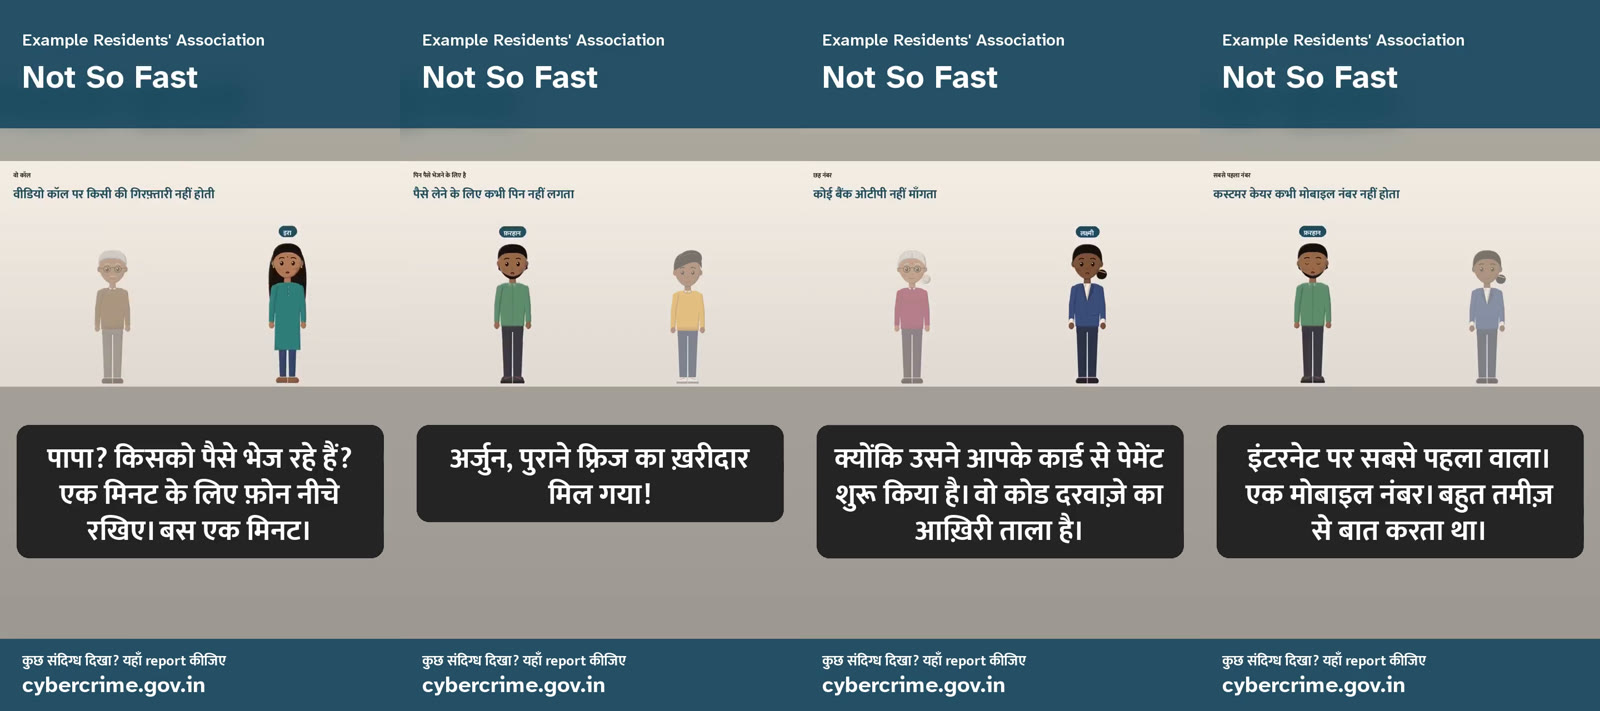
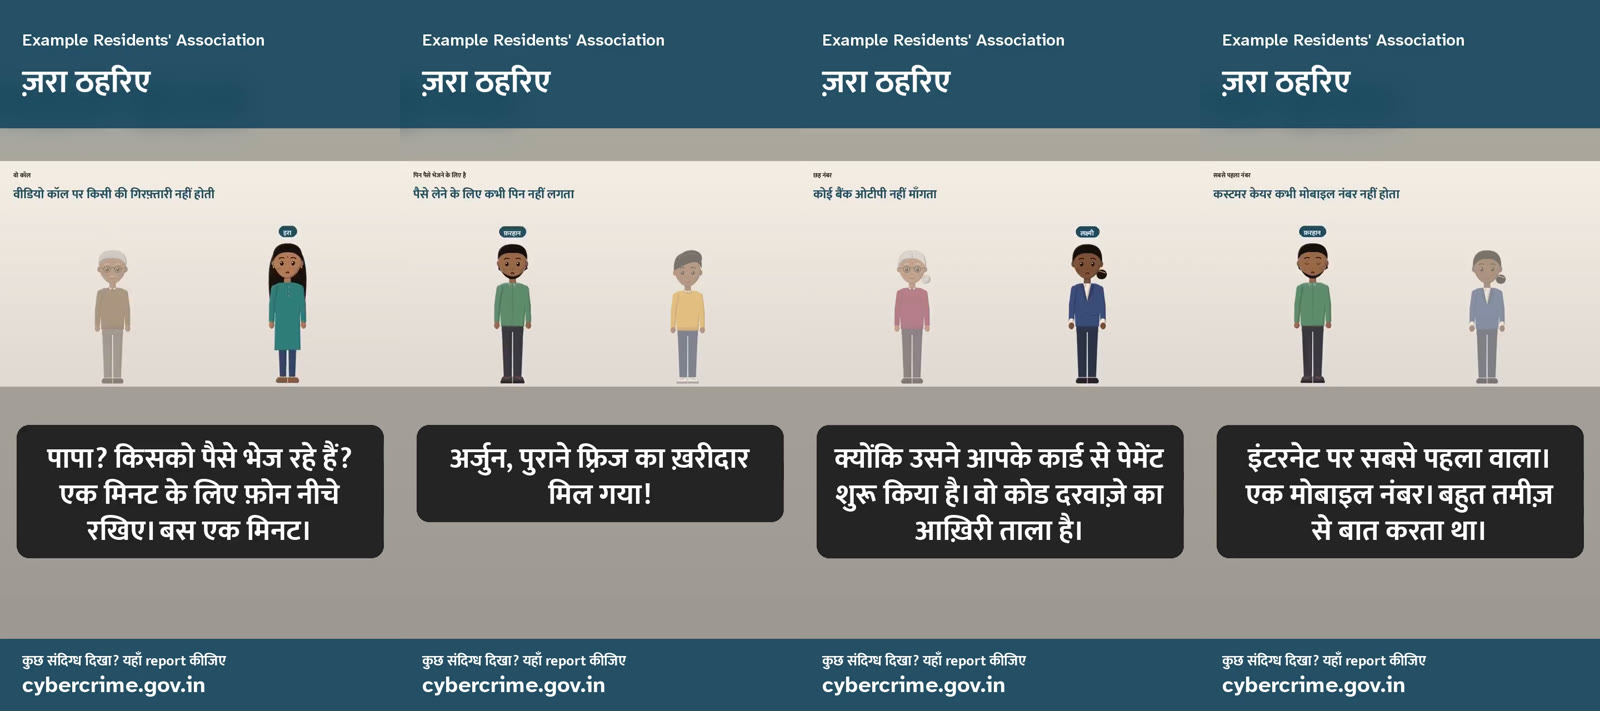
docs(india): previews from the films as they open now, on their Hindi title

diff --git a/docs/INDIA.md b/docs/INDIA.md
@@ -38,7 +38,7 @@ filmed in clay in both languages.
 This is the template exactly as `init` makes it, rendered in Hindi with drawn characters on a
 laptop processor (5 minutes 53 seconds of film in under four minutes, no graphics card):
 
-![Ten frames of the Hindi film: the title card, then Gopal and Ira, Farhan and Arjun, Kamala and Lakshmi, Gopal and Arjun, Lakshmi and Farhan in their scenes, each with its headline at the top and a Devanagari subtitle, a key point card, and the closing card that names cybercrime.gov.in.](media/india/not-so-fast-sheet.hi-IN.jpg)
+![Twelve frames of the Hindi film, each with its headline at the top and a Devanagari subtitle: Gopal telling Ira it is the police, Ira saying the police station is a painted wall, Ira saying they will report the number on sancharsaathi.gov.in, the scene's key point card; Farhan reading out 'Pay ₹4,500. Enter UPI PIN.', Arjun saying money coming in never needs a PIN; Lakshmi telling Kamala she works in a bank, Lakshmi explaining the code is the last lock, the key point that no bank asks for an OTP; Gopal reading the electricity message, the key point never to install an app from a message; Farhan asking about the screen-sharing app.](media/india/not-so-fast-sheet.hi-IN.jpg)
 
 The same film from `sastudio share`, for a phone held upright, and two pages from `sastudio posters`:
 
